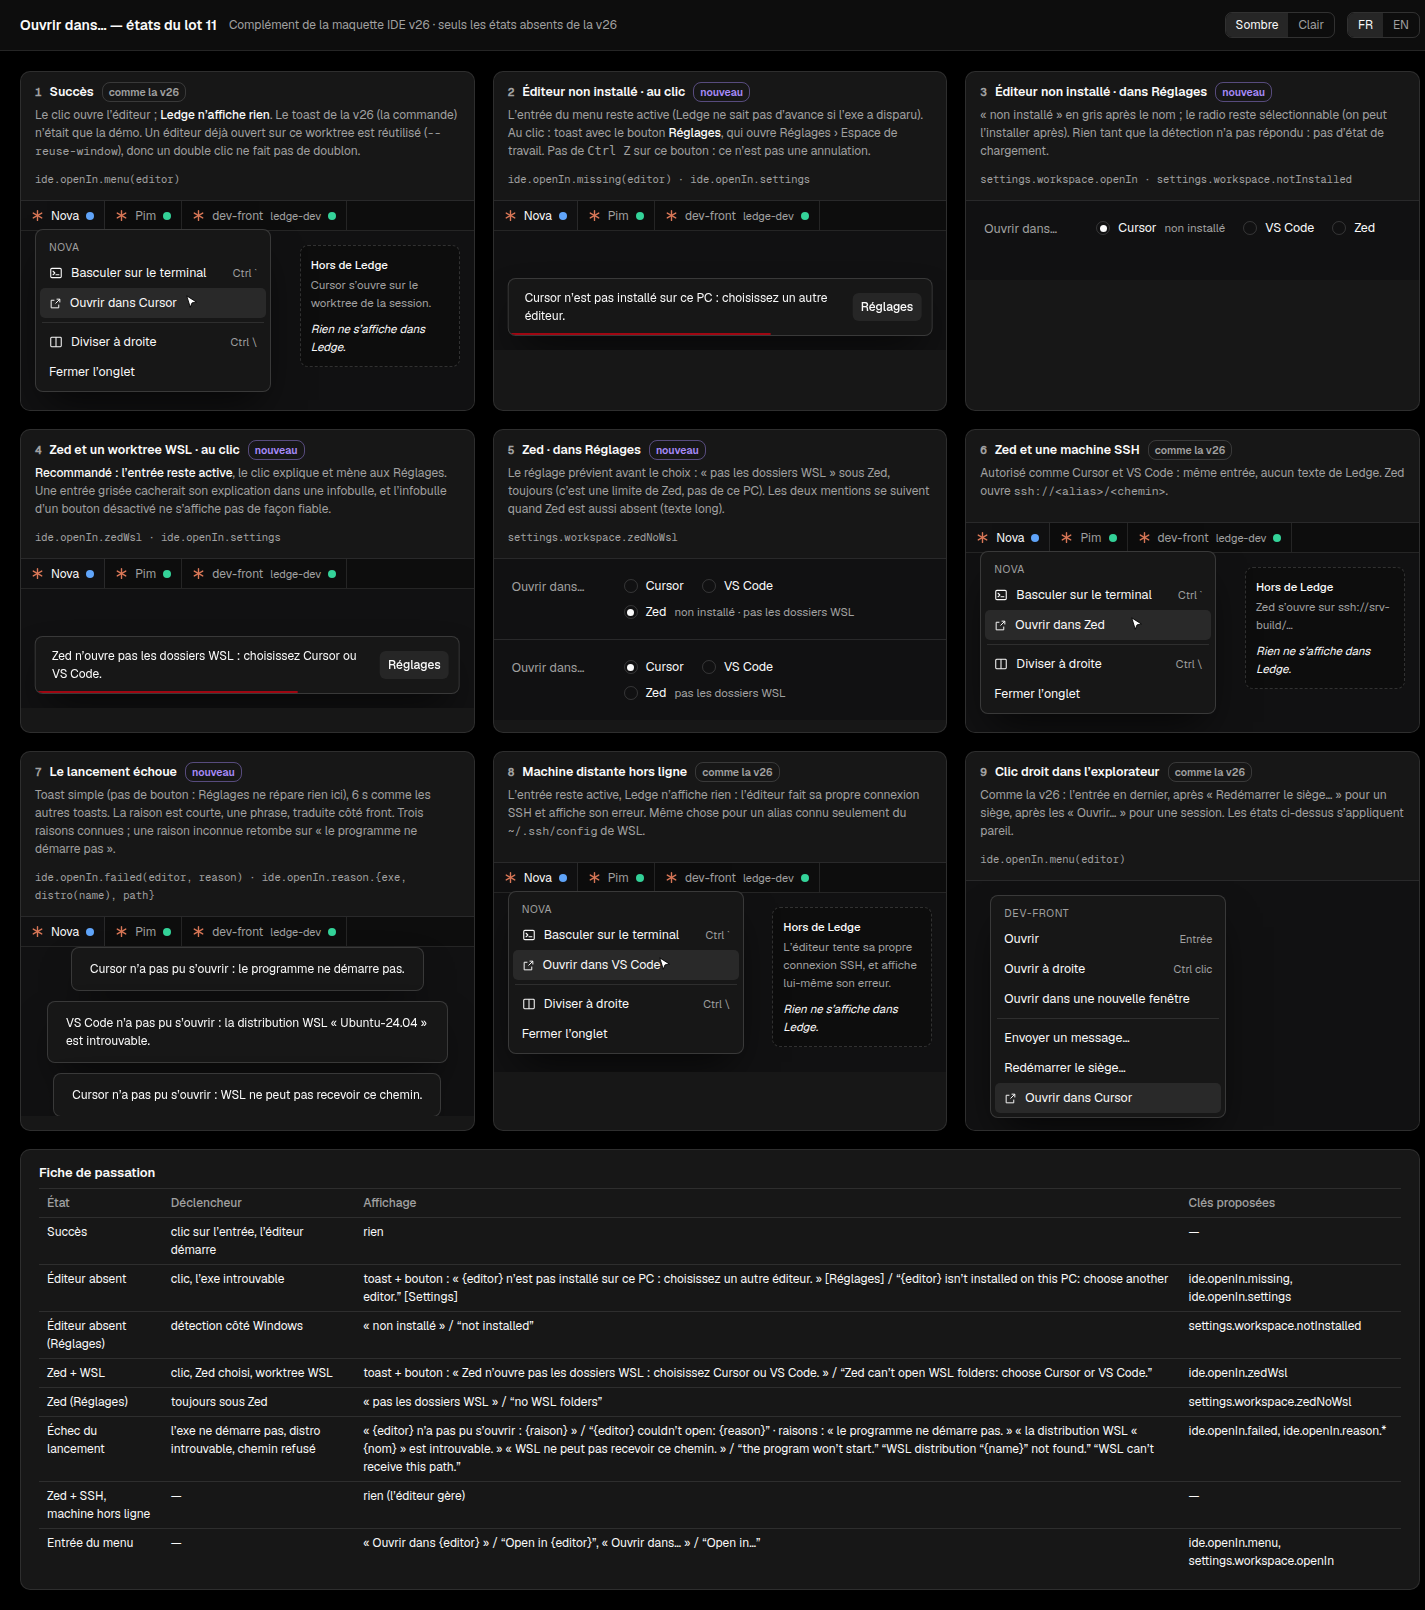
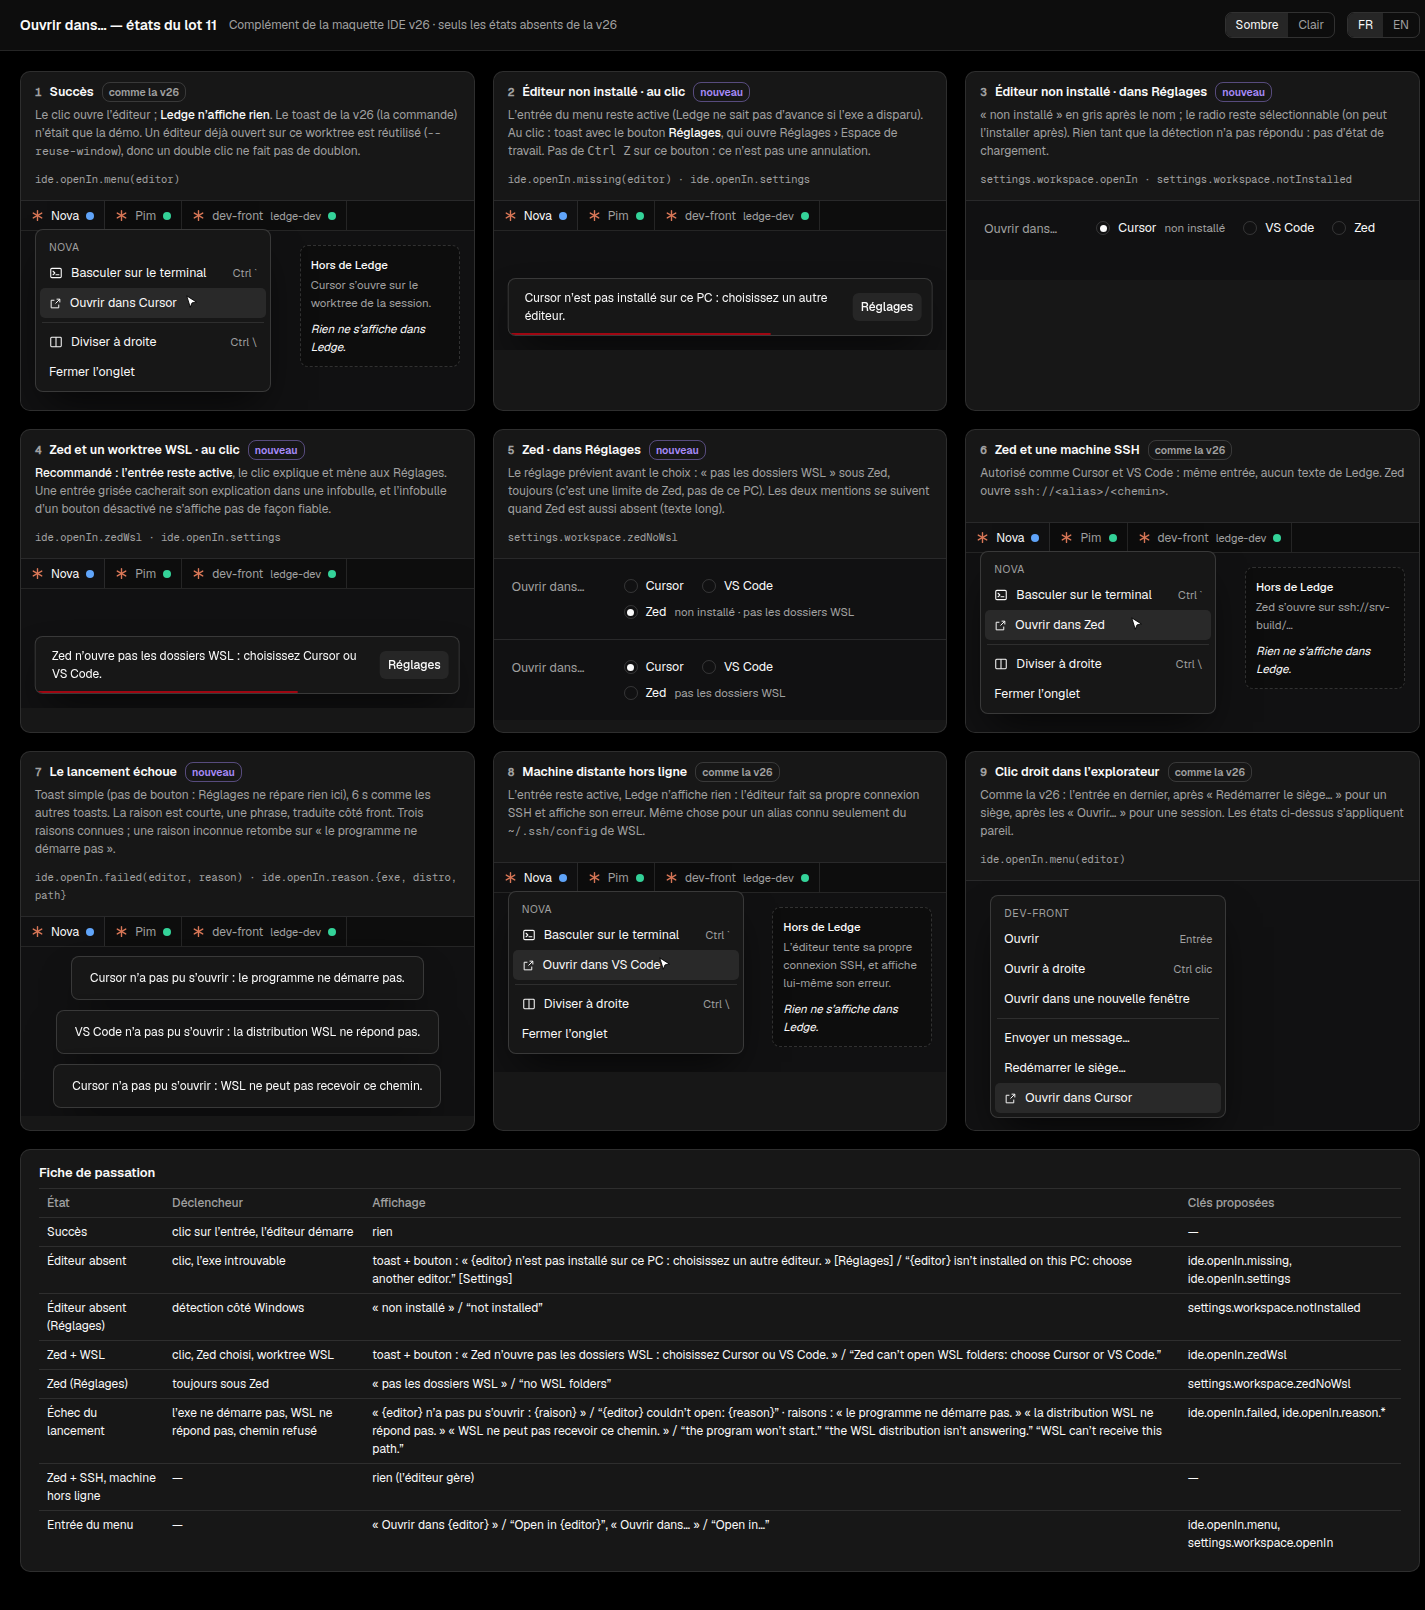
docs(mockups): IDE lot 11 — the WSL distribution reason without a name (« la distribution WSL ne répond pas. »), as the code can know it

diff --git a/docs/mockups/ledge-ide-open-in.html b/docs/mockups/ledge-ide-open-in.html
@@ -114,7 +114,7 @@ const T = {
     zedWsl:'Zed n’ouvre pas les dossiers WSL : choisissez Cursor ou VS Code.',
     settings:'Réglages',
     failed:(e,r)=>`${e} n’a pas pu s’ouvrir : ${r}`,
-    r_exe:'le programme ne démarre pas.', r_distro:d=>`la distribution WSL « ${d} » est introuvable.`, r_path:'WSL ne peut pas recevoir ce chemin.',
+    r_exe:'le programme ne démarre pas.', r_distro:()=>'la distribution WSL ne répond pas.', r_path:'WSL ne peut pas recevoir ce chemin.',
     ext:'Hors de Ledge', extOpen:e=>`${e} s’ouvre sur le worktree de la session.`, extSsh:'Zed s’ouvre sur ssh://srv-build/…', extOff:'L’éditeur tente sa propre connexion SSH, et affiche lui-même son erreur.',
     nothing:'Rien ne s’affiche dans Ledge.',
     c:[
@@ -140,7 +140,7 @@ const T = {
     zedWsl:'Zed can’t open WSL folders: choose Cursor or VS Code.',
     settings:'Settings',
     failed:(e,r)=>`${e} couldn’t open: ${r}`,
-    r_exe:'the program won’t start.', r_distro:d=>`WSL distribution “${d}” not found.`, r_path:'WSL can’t receive this path.',
+    r_exe:'the program won’t start.', r_distro:()=>'the WSL distribution isn’t answering.', r_path:'WSL can’t receive this path.',
     ext:'Outside Ledge', extOpen:e=>`${e} opens on the session’s worktree.`, extSsh:'Zed opens on ssh://srv-build/…', extOff:'The editor tries its own SSH connection and shows its own error.',
     nothing:'Nothing shows in Ledge.',
     c:null, fiche:'Handoff sheet', fh:['State','Trigger','Display','Proposed keys'],
@@ -169,7 +169,7 @@ function scenes(t){
     tabs()+toastAct(t.zedWsl, t),
     fld(t,'Zed',{Zed:`${t.notInstalled} · ${t.noWsl}`})+`<div style="border-top:1px solid var(--border)"></div>`+fld(t,'Cursor',{Zed:t.noWsl}),
     tabs()+tabMenu(t,'Zed',true)+`<div class="ext"><b>${t.ext}</b>${t.extSsh}<i>${t.nothing}</i></div>`,
-    tabs()+`<div class="stack">`+toast(t.failed('Cursor', t.r_exe))+toast(t.failed('VS Code', t.r_distro('Ubuntu-24.04')))+toast(t.failed('Cursor', t.r_path))+`</div>`,
+    tabs()+`<div class="stack">`+toast(t.failed('Cursor', t.r_exe))+toast(t.failed('VS Code', t.r_distro()))+toast(t.failed('Cursor', t.r_path))+`</div>`,
     tabs()+tabMenu(t,'VS Code',true)+`<div class="ext"><b>${t.ext}</b>${t.extOff}<i>${t.nothing}</i></div>`,
     `<div class="menu" style="left:24px;top:14px"><div class="mh">dev-front</div><button>${t.open}<span class="r">${t.enter}</span></button><button>${t.openRight}<span class="r">${t.ctrlClick}</span></button><button>${t.openWin}</button><div class="sep"></div><button>${t.msg}</button><button>${t.restart}</button><button class="hov">${ic.pop}${t.openIn('Cursor')}</button></div>`
   ];
@@ -181,7 +181,7 @@ const KEYS = [
   'ide.openIn.zedWsl · ide.openIn.settings',
   'settings.workspace.zedNoWsl',
   '—',
-  'ide.openIn.failed(editor, reason) · ide.openIn.reason.{exe, distro(name), path}',
+  'ide.openIn.failed(editor, reason) · ide.openIn.reason.{exe, distro, path}',
   '—',
   'ide.openIn.menu(editor)'
 ];
@@ -203,7 +203,7 @@ function render(){
     ['Éditeur absent (Réglages)','détection côté Windows', `« ${fr.notInstalled} » / “${en.notInstalled}”`,'settings.workspace.notInstalled'],
     ['Zed + WSL','clic, Zed choisi, worktree WSL', `toast + bouton : « ${fr.zedWsl} » / “${en.zedWsl}”`,'ide.openIn.zedWsl'],
     ['Zed (Réglages)','toujours sous Zed', `« ${fr.noWsl} » / “${en.noWsl}”`,'settings.workspace.zedNoWsl'],
-    ['Échec du lancement','l’exe ne démarre pas, distro introuvable, chemin refusé', `« ${fr.failed('{editor}','{raison}')} » / “${en.failed('{editor}','{reason}')}” · raisons : « ${fr.r_exe} » « ${fr.r_distro('{nom}')} » « ${fr.r_path} » / “${en.r_exe}” “${en.r_distro('{name}')}” “${en.r_path}”`,'ide.openIn.failed, ide.openIn.reason.*'],
+    ['Échec du lancement','l’exe ne démarre pas, WSL ne répond pas, chemin refusé', `« ${fr.failed('{editor}','{raison}')} » / “${en.failed('{editor}','{reason}')}” · raisons : « ${fr.r_exe} » « ${fr.r_distro()} » « ${fr.r_path} » / “${en.r_exe}” “${en.r_distro()}” “${en.r_path}”`,'ide.openIn.failed, ide.openIn.reason.*'],
     ['Zed + SSH, machine hors ligne','—','rien (l’éditeur gère)','—'],
     ['Entrée du menu','—', `« ${fr.openIn('{editor}')} » / “${en.openIn('{editor}')}”, « ${fr.fieldOpenIn} » / “${en.fieldOpenIn}”`,'ide.openIn.menu, settings.workspace.openIn'],
   ];
